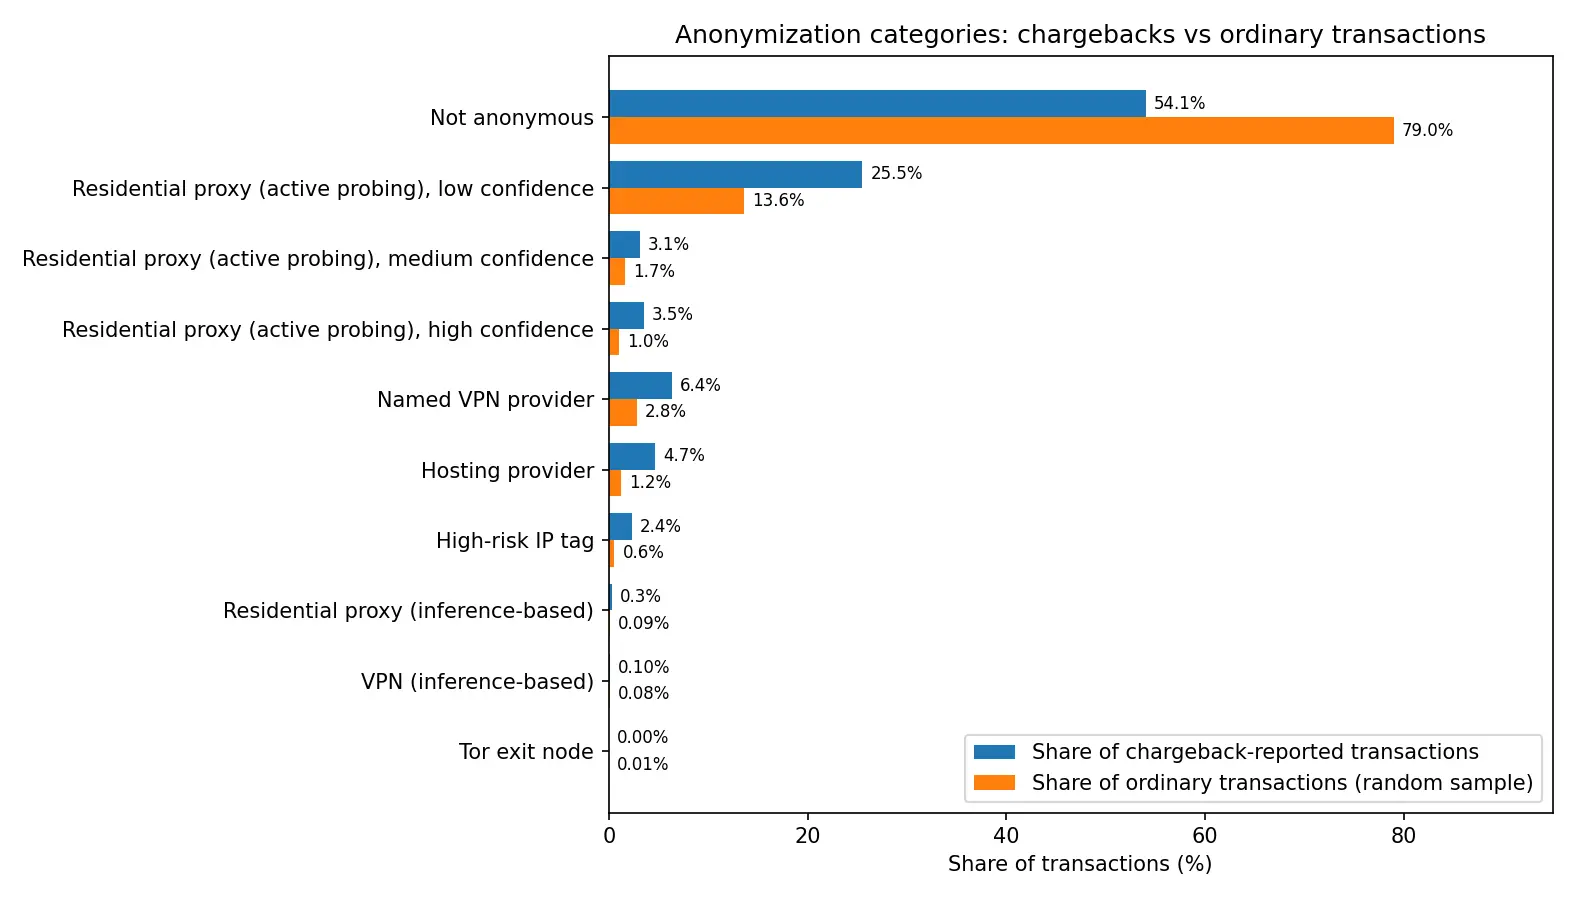
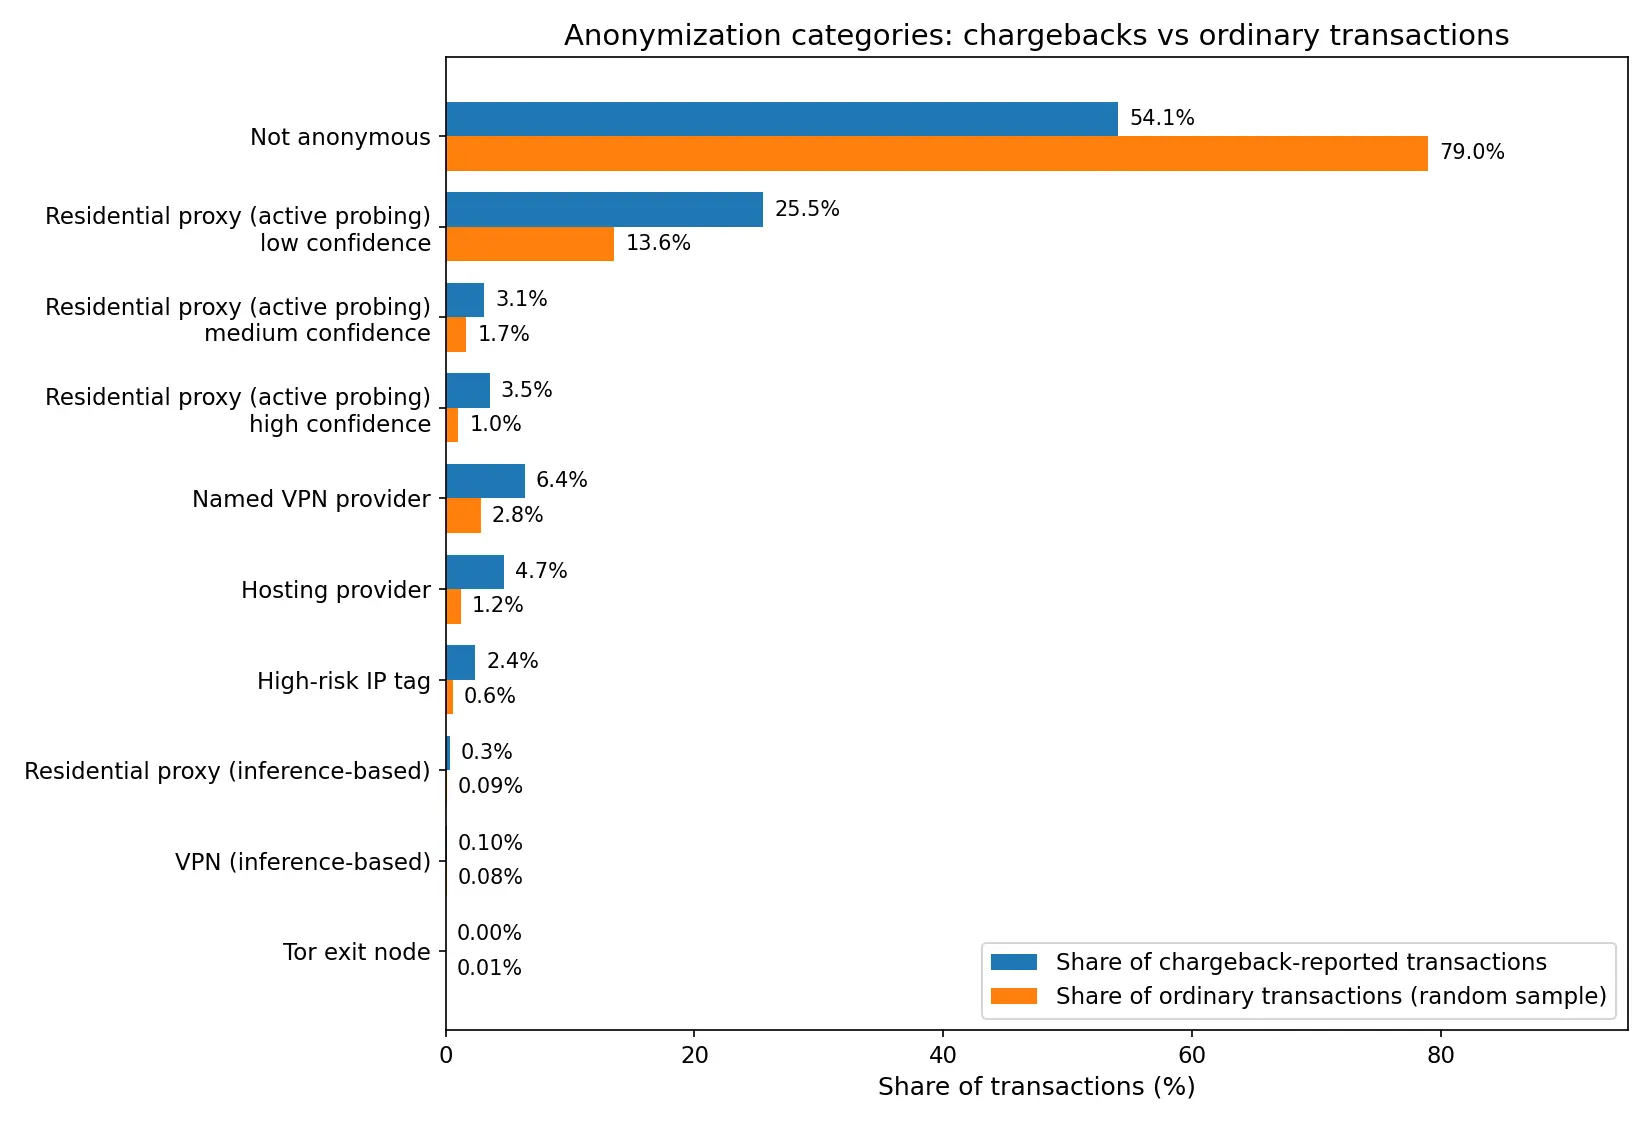
tweaks are implemented

Changed region(s): [[0.0, 0.0, 0.9956, 0.8711], [0.3733, 0.8089, 0.9956, 0.9956]]

diff --git a/content/2026/08/hiding-in-plain-sight-what-chargeback-data-reveals-about-residential-proxies.md b/content/2026/08/hiding-in-plain-sight-what-chargeback-data-reveals-about-residential-proxies.md
@@ -1,7 +1,7 @@
 ---
-title:
+title: "What MaxMind chargeback data shows about residential proxies"
+heading:
   "Hiding in plain sight: what chargeback data reveals about residential proxies"
-heading: "What MaxMind chargeback data shows about residential proxies"
 description:
   "Read our expert analysis of residential proxies and other anonymized fraud
   methods + learn how to effectively detect fraudulent traffic with confidence
@@ -39,14 +39,9 @@ traced to residential proxies. Put on the scale of all chargeback-reported
 transactions, roughly one in three came from a residential proxy detected by
 active probing versus roughly one in six ordinary transactions.
 
-![residential proxies versus ordinary transactions](/images/2026/08/chargebacks-vs-ordinary-transactions.webp)
-
-_Each transaction is counted once, in its most specific matching category. The
-upper bar in each pair is the share of fraud-coded chargeback-reported
-transactions, the lower is the share of a random sample of ordinary
-transactions. Residential proxies found by active probing account for about 32%
-of chargebacks against 16% of ordinary transactions, and most of that volume
-sits in the low-confidence band._
+<figure>
+  <figcaption>Residential proxies found by active probing account for about 32% of chargebacks against 16% of ordinary transactions, and most of that volume sits in the low-confidence band.</figcaption>
+</figure>
 
 What this means is that the method that looks most like legitimate traffic, and
 also defeats geographic checks and static IP lists at the same time, accounts
